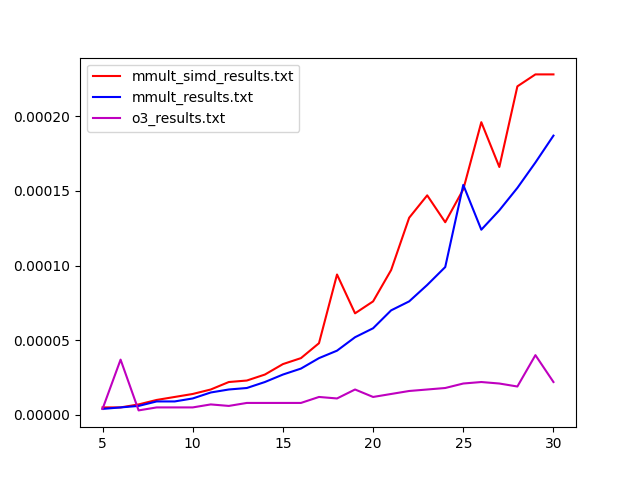
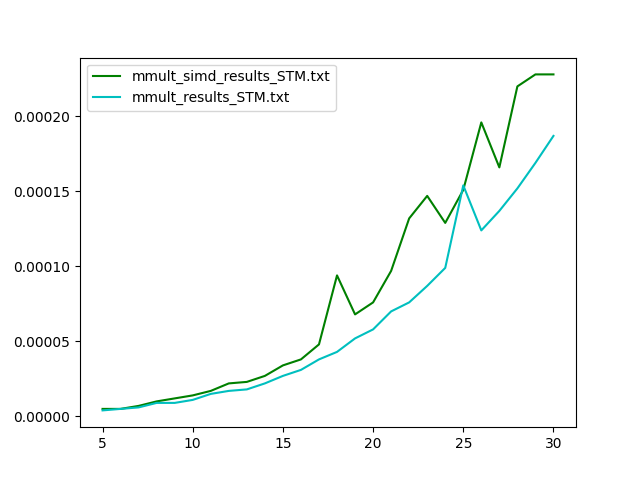
added more automation so that there is no need for command line arguments. As long as the file ends with STM and is in the current directory then it will graph the data

diff --git a/grapher.py b/grapher.py
@@ -3,21 +3,27 @@
 import sys
 import matplotlib.pyplot as plt 
 from itertools import cycle
-
-colors = ['g','c', 'r', 'b', 'm', 'y', 'k']
+import os
+colors = ['g','r', 'b', 'c', 'm', 'y', 'k']
 
 y_array = []
 x_array = []
-
+"""
 if(len(sys.argv) != 2 + int(sys.argv[1])):
     print("Not correct amount of arguments")
     exit(0)
+"""
 
-
-for i in range(2,int(sys.argv[1]) + 2):
+directory = os.listdir(os.getcwd())
+data = []
+for file1 in directory:
+    if "STM" in file1:
+        data.append(file1)
+count = 0
+for i in data:
     x_values = []
     y_values = []
-    with open(sys.argv[i], "r") as file1:
+    with open(i, "r") as file1:
          f_list = [float(i) for line in file1 for i in line.split(',') if i.strip()]
 
     for index, element in enumerate(f_list):
@@ -27,8 +33,8 @@ for i in range(2,int(sys.argv[1]) + 2):
             y_values.append(element)
     x_array.append(x_values)
     y_array.append(y_values)
-    plt.plot(x_array[i-2],y_array[i-2],c=colors[i%len(colors)],label=sys.argv[i])  
-    
+    plt.plot(x_array[count],y_array[count],c=colors[count%len(colors)],label=i)  
+    count += 1
 
 # ./grapher 3 input.txt input2.txt input3.txt
 
